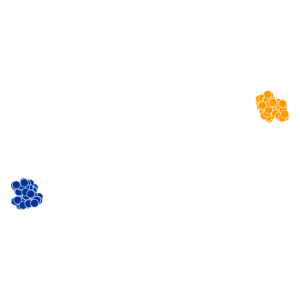
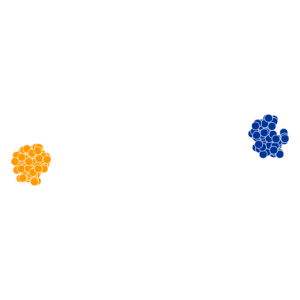
update number of points for some examples to avoid bad perplexity

Changed region(s): [[0.81, 0.3, 0.96, 0.54], [0.03, 0.48, 0.18, 0.72]]

diff --git a/assets/figure-configs.js b/assets/figure-configs.js
@@ -27,7 +27,7 @@ var figures = [
   },
   {
     id: "03",
-    params: [50, 2],
+    params: [75, 2],
     dataset: 'Two Different-Sized Clusters',
     no3d: true,
     examples: [
@@ -92,7 +92,7 @@ var figures = [
   },
   {
     id: "08",
-    params: [50, 2],
+    params: [75, 2],
     dataset: 'Two Long Linear Clusters',
     no3d: true,
     examples: [
@@ -105,7 +105,7 @@ var figures = [
   },
   {
     id: "09",
-    params: [50, 50],
+    params: [75, 50],
     dataset: 'Cluster In Cluster',
     no3d: true,
     examples: [
@@ -131,7 +131,7 @@ var figures = [
   },
   {
     id: "11",
-    params: [100],
+    params: [150],
     dataset: 'Trefoil Knot',
     no3d: false,
     examples: [

diff --git a/index.md b/index.md
@@ -61,7 +61,7 @@ Let's start with the "hello world" of t-SNE: a data set of two widely separated 
 <section class="w-page tsne-group" id="figures-01" data-id="01">
 </section>
 
-With perplexity values in the range (5 - 50) suggested by van der Maaten & Hinton, the diagrams do show these clusters. Outside that range, things get a little weird. With perplexity 2, local variations dominate; at perplexity 100, the clusters merge into one blob.
+With perplexity values in the range (5 - 50) suggested by van der Maaten & Hinton, the diagrams do show these clusters, although with very different shapes. Outside that range, things get a little weird. With perplexity 2, local variations dominate. The image for perplexity 100, with merged clusters, illustrates a pitfall: for the algorithm to operate property, the perplexity really should be smaller than the number of points. Implementations can give unexpected behavior otherwise.
 
 Each of the plots above was made with 5,000 iterations with a learning rate (often called "epsilon") of 10, and had reached a point of stability by step 5,000. How much of a difference do those values make? In our experience, the most important thing is to iterate until reaching a stable configuration.
 
@@ -134,7 +134,7 @@ It's rare for data to be distributed in a perfectly symmetric way. Let's take a 
 <section class="w-page tsne-group" id="figures-07" data-id="07">
 </section>
 
-For high enough perplexity values, the elongated shapes are easy to read. On the other hand, at low perplexity, local effects and meaningless "clumping" take center stage. More extreme shapes also come through, but again only at the right perplexity. For example, here are two clusters of 50 points each in 2D, arranged in parallel lines with a bit of noise.
+For high enough perplexity values, the elongated shapes are easy to read. On the other hand, at low perplexity, local effects and meaningless "clumping" take center stage. More extreme shapes also come through, but again only at the right perplexity. For example, here are two clusters of 75 points each in 2D, arranged in parallel lines with a bit of noise.
 
 <section class="w-page tsne-group" id="figures-08" data-id="08">
 </section>
@@ -148,7 +148,7 @@ Even in the best cases, though, there's a subtle distortion: the lines are sligh
 ## 6. For topology, you may need more than one plot
 
 Sometimes you can read topological information off a t-SNE plot, but that typically requires views at multiple perplexities.
-One of the simplest topological properties is containment. The plots below show two groups of 50 points in 50 dimensional space. Both are sampled from symmetric Gaussian distributions centered at the origin, but one is 50 times more tightly dispersed than the other. The "small" distribution is in effect contained in the large one.
+One of the simplest topological properties is containment. The plots below show two groups of 75 points in 50 dimensional space. Both are sampled from symmetric Gaussian distributions centered at the origin, but one is 50 times more tightly dispersed than the other. The "small" distribution is in effect contained in the large one.
 
 <section class="w-page tsne-group" id="figures-09" data-id="09">
 </section>
@@ -197,7 +197,10 @@ Don't let the hidden "magic" scare you away from the whole technique, though. Th
      Daniel Smilkov, James Wexler, and Chi Zeng provided many helpful comments.
      We also thank Andrej Karpathy for creating the
      <a href="https://github.com/karpathy/tsnejs">tsnejs</a> library used in the interactive diagrams.</p>
-  <p>This work was made possible by the support of the <a href="https://research.google.com/teams/brain/">Google Brain</a> team.
+  <p>This work was made possible by the support of the <a href="https://research.google.com/teams/brain/">Google Brain</a> team.</p>
+
+
+  <p>Edited on Oct. 18, 2016 to describe and correct issues when perplexity is defined to be larger than the number of points. Thanks to Laurens van der Maaten for pointing this out.</p>
 
   <h3 id="citation">Errors, Reuse, and Citation</h3>
   <p>If you see mistakes or want to suggest changes, please submit a pull request on <a href="{{{distill.github}}}">github</a>.
